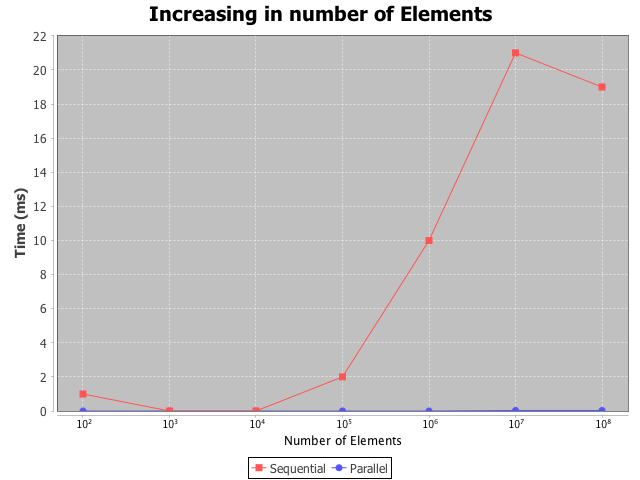
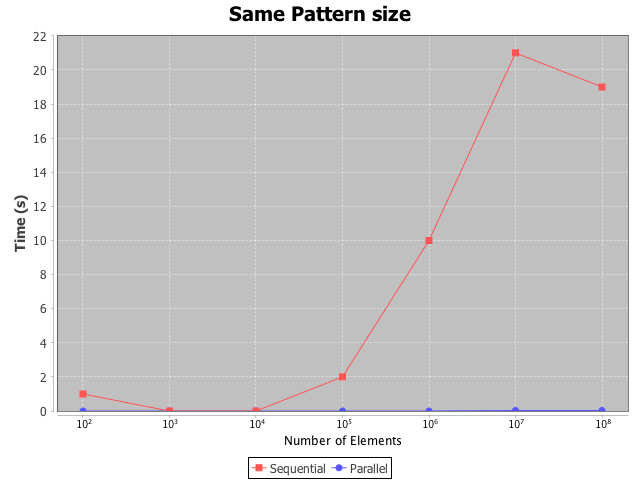
update

Changed region(s): [[0.2188, 0.0, 0.7812, 0.0625], [0.0, 0.4062, 0.0625, 0.5312]]

diff --git a/src/StatisticBoyerMoore.java b/src/StatisticBoyerMoore.java
@@ -31,90 +31,96 @@ public class StatisticBoyerMoore {
 		int np = 16;
 		int pow = 8;
 
-//		double[] normalResult = new double[pow];
-//
-//		for (int i = 1; i <= pow; i++) {
-//			int m = (int) Math.pow(10, i);
-//			int n = m * fraction;
-//
-//			String command = "java BoyerMoore " + n + " " + m;
-//			System.out.println("\n=============");
-//			System.out.println(command);
-//			ProcessBuilder builder = new ProcessBuilder(command.split(" "));
-//			builder.redirectErrorStream(true);
-//			Process pr = builder.start();
-//			normalResult[i - 1] = watch(pr);
-//		}
-//
-//		for (int i = 1; i <= np; i++) {
-//			for (int j = 1; j <= pow; j++) {
-//				int m = (int) Math.pow(10, j);
-//				int n = m * fraction;
-//				String temp = i + "\t" + n + "\t" + m + "\t" + normalResult[j - 1];
-//
-//				String command = "mpirun -np " + i + " java MpiBoyerMoore " + n + " " + m;
-//				System.out.println("\n=============");
-//				System.out.println(command);
-//				ProcessBuilder builder = new ProcessBuilder(command.split(" "));
-//				builder.redirectErrorStream(true);
-//				Process pr = builder.start();
-//
-//				temp += "\t" + watch(pr);
-//
-//				Files.write(Paths.get("report-boyer.txt"), (temp + "\n").getBytes(), StandardOpenOption.CREATE,
-//						StandardOpenOption.APPEND);
-//			}
-//		}
-//
-//		int m = 10;
-//
-//		for (int i = 2; i <= pow; i++) {
-//			int n = (int) Math.pow(10, i);
-//
-//			String command = "java BoyerMoore " + n + " " + m;
-//			System.out.println("\n=============");
-//			System.out.println(command);
-//			ProcessBuilder builder = new ProcessBuilder(command.split(" "));
-//			builder.redirectErrorStream(true);
-//			Process pr = builder.start();
-//			normalResult[i - 1] = watch(pr);
-//		}
-//
-//		for (int i = 1; i <= np; i++) {
-//			for (int j = 2; j <= pow; j++) {
-//				int n = (int) Math.pow(10, j);
-//				String temp = i + "\t" + n + "\t" + m + "\t" + normalResult[j - 1];
-//
-//				String command = "mpirun -np " + i + " java MpiBoyerMoore " + n + " " + m;
-//				System.out.println("\n=============");
-//				System.out.println(command);
-//				ProcessBuilder builder = new ProcessBuilder(command.split(" "));
-//				builder.redirectErrorStream(true);
-//				Process pr = builder.start();
-//				temp += "\t" + watch(pr);
-//
-//				Files.write(Paths.get("report-boyer.txt"), (temp + "\n").getBytes(), StandardOpenOption.CREATE,
-//						StandardOpenOption.APPEND);
-//			}
-//		}
-		
+		// double[] normalResult = new double[pow];
+		//
+		// for (int i = 1; i <= pow; i++) {
+		// int m = (int) Math.pow(10, i);
+		// int n = m * fraction;
+		//
+		// String command = "java BoyerMoore " + n + " " + m;
+		// System.out.println("\n=============");
+		// System.out.println(command);
+		// ProcessBuilder builder = new ProcessBuilder(command.split(" "));
+		// builder.redirectErrorStream(true);
+		// Process pr = builder.start();
+		// normalResult[i - 1] = watch(pr);
+		// }
+		//
+		// for (int i = 1; i <= np; i++) {
+		// for (int j = 1; j <= pow; j++) {
+		// int m = (int) Math.pow(10, j);
+		// int n = m * fraction;
+		// String temp = i + "\t" + n + "\t" + m + "\t" + normalResult[j - 1];
+		//
+		// String command = "mpirun -np " + i + " java MpiBoyerMoore " + n + " "
+		// + m;
+		// System.out.println("\n=============");
+		// System.out.println(command);
+		// ProcessBuilder builder = new ProcessBuilder(command.split(" "));
+		// builder.redirectErrorStream(true);
+		// Process pr = builder.start();
+		//
+		// temp += "\t" + watch(pr);
+		//
+		// Files.write(Paths.get("report-boyer.txt"), (temp + "\n").getBytes(),
+		// StandardOpenOption.CREATE,
+		// StandardOpenOption.APPEND);
+		// }
+		// }
+		//
+		// int m = 10;
+		//
+		// for (int i = 2; i <= pow; i++) {
+		// int n = (int) Math.pow(10, i);
+		//
+		// String command = "java BoyerMoore " + n + " " + m;
+		// System.out.println("\n=============");
+		// System.out.println(command);
+		// ProcessBuilder builder = new ProcessBuilder(command.split(" "));
+		// builder.redirectErrorStream(true);
+		// Process pr = builder.start();
+		// normalResult[i - 1] = watch(pr);
+		// }
+		//
+		// for (int i = 1; i <= np; i++) {
+		// for (int j = 2; j <= pow; j++) {
+		// int n = (int) Math.pow(10, j);
+		// String temp = i + "\t" + n + "\t" + m + "\t" + normalResult[j - 1];
+		//
+		// String command = "mpirun -np " + i + " java MpiBoyerMoore " + n + " "
+		// + m;
+		// System.out.println("\n=============");
+		// System.out.println(command);
+		// ProcessBuilder builder = new ProcessBuilder(command.split(" "));
+		// builder.redirectErrorStream(true);
+		// Process pr = builder.start();
+		// temp += "\t" + watch(pr);
+		//
+		// Files.write(Paths.get("report-boyer.txt"), (temp + "\n").getBytes(),
+		// StandardOpenOption.CREATE,
+		// StandardOpenOption.APPEND);
+		// }
+		// }
+
 		int m = 20;
 
 		for (int i = 1; i <= np; i++) {
-			int n = (int) Math.pow(10, 8);
+			for (int j = 2; j <= pow; j++) {
+				int n = (int) Math.pow(10, j);
 
-			for (int j = 0; j < 10; j++) {
-				String temp = i + "\t" + n;
-				String command = "mpirun -np " + i + " java MpiBoyerMoore " + n + " " + m;
-				System.out.println("\n=============");
-				System.out.println(command);
-				ProcessBuilder builder = new ProcessBuilder(command.split(" "));
-				builder.redirectErrorStream(true);
-				Process pr = builder.start();
-				temp += "\t" + watch(pr);
+				for (int k = 0; k < 5; j++) {
+					String temp = i + "\t" + n;
+					String command = "mpirun -np " + i + " java MpiBoyerMoore " + n + " " + m;
+					System.out.println("\n=============");
+					System.out.println(command);
+					ProcessBuilder builder = new ProcessBuilder(command.split(" "));
+					builder.redirectErrorStream(true);
+					Process pr = builder.start();
+					temp += "\t" + watch(pr);
 
-				Files.write(Paths.get("report-boyer.txt"), (temp + "\n").getBytes(), StandardOpenOption.CREATE,
-						StandardOpenOption.APPEND);
+					Files.write(Paths.get("report-boyer.txt"), (temp + "\n").getBytes(), StandardOpenOption.CREATE,
+							StandardOpenOption.APPEND);
+				}
 			}
 		}
 

diff --git a/src/com/paduvi/stats/LineChartAWT.java b/src/com/paduvi/stats/LineChartAWT.java
@@ -36,7 +36,7 @@ public class LineChartAWT extends ApplicationFrame {
 		xAxis.setBase(10);
 		xAxis.setStandardTickUnits(NumberAxis.createIntegerTickUnits());
 
-		JFreeChart lineChart = ChartFactory.createXYLineChart(chartTitle, "Number of Elements", "Time (ms)",
+		JFreeChart lineChart = ChartFactory.createXYLineChart(chartTitle, "Number of Elements", "Time (s)",
 				createDataset(rawDataset), PlotOrientation.VERTICAL, true, true, false);
 
 		XYPlot plot = lineChart.getXYPlot();
@@ -63,16 +63,13 @@ public class LineChartAWT extends ApplicationFrame {
 		setContentPane(chartPanel);
 	}
 
-	private XYSeriesCollection createDataset(Map<Integer, String> rawDataset) {
-		XYSeries series1 = new XYSeries("Sequential");
+	private XYSeriesCollection createDataset(Map<Integer, Integer> rawDataset) {
+		XYSeries series = new XYSeries("Sequential");
 		XYSeries series2 = new XYSeries("Parallel");
-		for (Map.Entry<Integer, String> entry : rawDataset.entrySet()) {
+		for (Map.Entry<Integer, Integer> entry : rawDataset.entrySet()) {
 			int k = entry.getKey();
-			String v = entry.getValue();
+			Integer v = entry.getValue();
 
-			String[] parts = v.split(" ");
-			double v1 = Double.parseDouble(parts[0]);
-			double v2 = Double.parseDouble(parts[1]);
 			series1.add(k, v1);
 			series2.add(k, v2);
 		}
@@ -87,17 +84,12 @@ public class LineChartAWT extends ApplicationFrame {
 
 		SparkConf conf = new SparkConf().setAppName(LineChartAWT.class.getName()).setMaster(master);
 		JavaSparkContext context = new JavaSparkContext(conf);
-		Map<Integer, String> rawDataset = context.textFile("report/report-boyer2.txt").mapToPair(line -> {
+		Map<Integer, Integer> rawDataset = context.textFile("report/report-boyer2.txt").mapToPair(line -> {
 			String[] parts = line.trim().split("\t");
+			return new Tuple2<Integer, Integer>(Integer.parseInt(parts[0]), Integer.parseInt(parts[2]));
+		}).reduceByKey((a, b) -> a + b).collectAsMap();
 
-			return new Tuple2<Integer, String>(Integer.parseInt(parts[1]), parts[3] + " " + parts[4]);
-		}).reduceByKey((a, b) -> {
-			double v1 = Double.parseDouble(a.split(" ")[1]);
-			double v2 = Double.parseDouble(b.split(" ")[1]);
-			return a.split(" ")[0] + " " + Math.min(v1, v2);
-		}).collectAsMap();
-
-		LineChartAWT chart = new LineChartAWT("Sequential vs Parallel", "Increasing in number of Elements", rawDataset);
+		LineChartAWT chart = new LineChartAWT("Sequential vs Parallel", "Same Pattern size", rawDataset);
 
 		context.close();
 		chart.pack();
